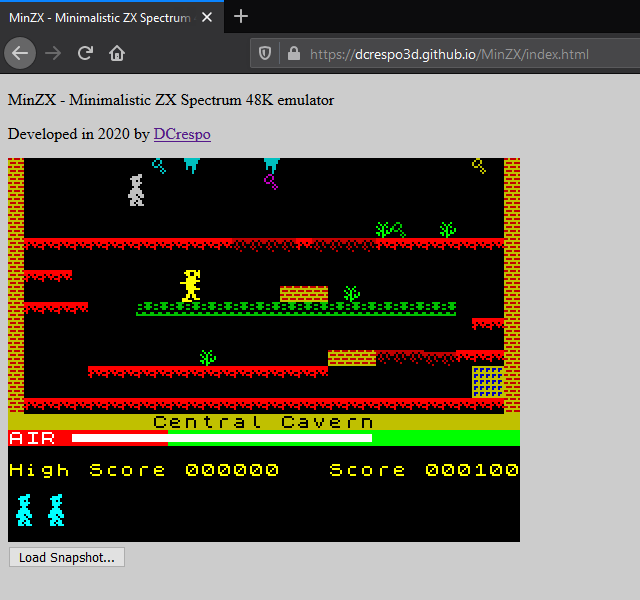
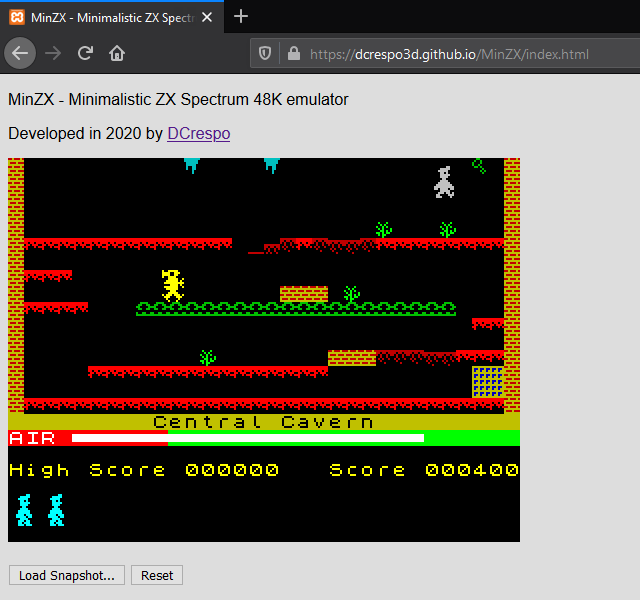
Added FLASH attribute and Reset button.

diff --git a/ZXScreenAsImageData.js b/ZXScreenAsImageData.js
@@ -44,28 +44,32 @@ class ZXScreenAsImageData
         return zxcolors[rgb | bri];
     }
 
-    putSpectrumImage(zxscreen)
+    putSpectrumImage(zxscreen, border, flashinv)
     {
-        let linscr = this.zx_row_adjust(zxscreen);
+        const linscr = this.zx_row_adjust(zxscreen);
 
         let isrc = 0;
         let idst = 0;
 
-        let imgdata = this.imgdata;
+        const data = this.imgdata.data;
 
         for (let row = 0; row < 24; row++)
         {
             for (let subrow = 0; subrow < 8; subrow++)
             {
-                let y = (row * 32) + subrow;
+                const y = (row * 32) + subrow;
                 let iatt = 6144 + 32 * row;
                 for (let x = 0; x < 32; x++)
                 {
-                    let attr = linscr[iatt++]
-                    let byte = linscr[isrc++];
+                    const attr = linscr[iatt++]
+                    let   byte = linscr[isrc++];
 
                     let col0 = this.getAttrColorIndexForBit0(attr);
                     let col1 = this.getAttrColorIndexForBit1(attr);
+
+                    if (flashinv && (attr & 0x80)) {
+                        let aux = col0; col0 = col1; col1 = aux;
+                    }
 
                     for (let b = 0; b < 8; b++)
                     {
@@ -75,16 +79,16 @@ class ZXScreenAsImageData
                         byte <<= 1;
 
                         if (bit) {
-                            imgdata.data[idst++] = col1[0]; // r
-                            imgdata.data[idst++] = col1[1]; // g
-                            imgdata.data[idst++] = col1[2]; // b
-                            imgdata.data[idst++] = col1[3]; // a
+                            data[idst++] = col1[0]; // r
+                            data[idst++] = col1[1]; // g
+                            data[idst++] = col1[2]; // b
+                            data[idst++] = col1[3]; // a
                         }
                         else {
-                            imgdata.data[idst++] = col0[0]; // r
-                            imgdata.data[idst++] = col0[1]; // g
-                            imgdata.data[idst++] = col0[2]; // b
-                            imgdata.data[idst++] = col0[3]; // a
+                            data[idst++] = col0[0]; // r
+                            data[idst++] = col0[1]; // g
+                            data[idst++] = col0[2]; // b
+                            data[idst++] = col0[3]; // a
                         }
                     }
                 }

diff --git a/MinZX.js b/MinZX.js
@@ -2,12 +2,12 @@ class MinZX
 {
     constructor()
     {
-        let lx82 = this;
-        var core = {
-            mem_read  : function(addr)     { return lx82.mem_read (addr)    ; },
-            mem_write : function(addr,val) {        lx82.mem_write(addr,val); },
-            io_read   : function(port)     { return lx82.io_read  (port)    ; },
-            io_write  : function(port,val) {        lx82.io_write (port,val); },
+        const self = this;
+        const core = {
+            mem_read  : function(addr)     { return self.mem_read (addr)    ; },
+            mem_write : function(addr,val) {        self.mem_write(addr,val); },
+            io_read   : function(port)     { return self.io_read  (port)    ; },
+            io_write  : function(port,val) {        self.io_write (port,val); },
         };
 
         this.cpu = new Z80(core);
@@ -81,7 +81,7 @@ class MinZX
         let scr = new Uint8Array(scrlen);
         for (let i = 0; i < scrlen; i++)
             scr[i] = this.mem[off + i];
-        this.zxid.putSpectrumImage(scr);
+        this.zxid.putSpectrumImage(scr, 0, this._flashstate);
 
         this._drawScreen();
 
@@ -174,6 +174,10 @@ class MinZX
         // accumulated time, for emitting interrupt once per frame
         this._accumtime = this._frametime;
 
+        this._flashstate = false;
+        this._flashtime = 0;
+        this._flashperiod = 320;
+
         // load ROM and start animation when ROM loaded
         const that = this;
         loadRemoteBinaryFile('zx48.rom', function(data) {
@@ -219,7 +223,7 @@ class MinZX
     _onDrawFrame(time, deltatime)
     {
         this._accumtime += deltatime;
-        while (this._accumtime > this._frametime)
+        while (this._accumtime >= this._frametime)
         {
             let numCycles = 0;
             let maxCycles = this._cpufreq * this._frametime;
@@ -232,6 +236,12 @@ class MinZX
                 }    
             }
             
+            this._flashtime += this._frametime;
+            if (this._flashtime >= this._flashperiod) {
+                this._flashtime -= this._flashperiod;
+                this._flashstate = !this._flashstate;
+            }
+
             this.updateScreen();
 
             this.cpu.interrupt(false, 0);

diff --git a/index.html b/index.html
@@ -32,6 +32,7 @@ window.addEventListener('load', function() {
     <style>
 body {
     background: #CCC;
+    font-family: Arial, Helvetica, sans-serif;
 }
 
     </style>
@@ -40,7 +41,7 @@ body {
     <p>MinZX - Minimalistic ZX Spectrum 48K emulator</p>
     <p>Developed in 2020 by <a href="https://github.com/dcrespo3d/MinZX">DCrespo</a></p>
     <canvas id=zxscr></canvas>
-    <br/>
+    <br/><br/>
     <button id=btnLoadSnaFile>Load Snapshot...</button>
     </div>
 </body>

diff --git a/README.md b/README.md
@@ -11,7 +11,7 @@ It has a small code base which makes it easy to understand.
 
 ## Features
 - ZX Spectrum 48K emulation with original ROM.
-- Screen emulation with BRIGHT attribute (but no FLASH yet).
+- Screen emulation with BRIGHT and FLASH attributes.
 - Keyboard emulation, from DOM keydown/keyup events.
 - SNA snapshot loading from local filesystem (can play Manic Miner and Jet Set Willy - not included).
 
